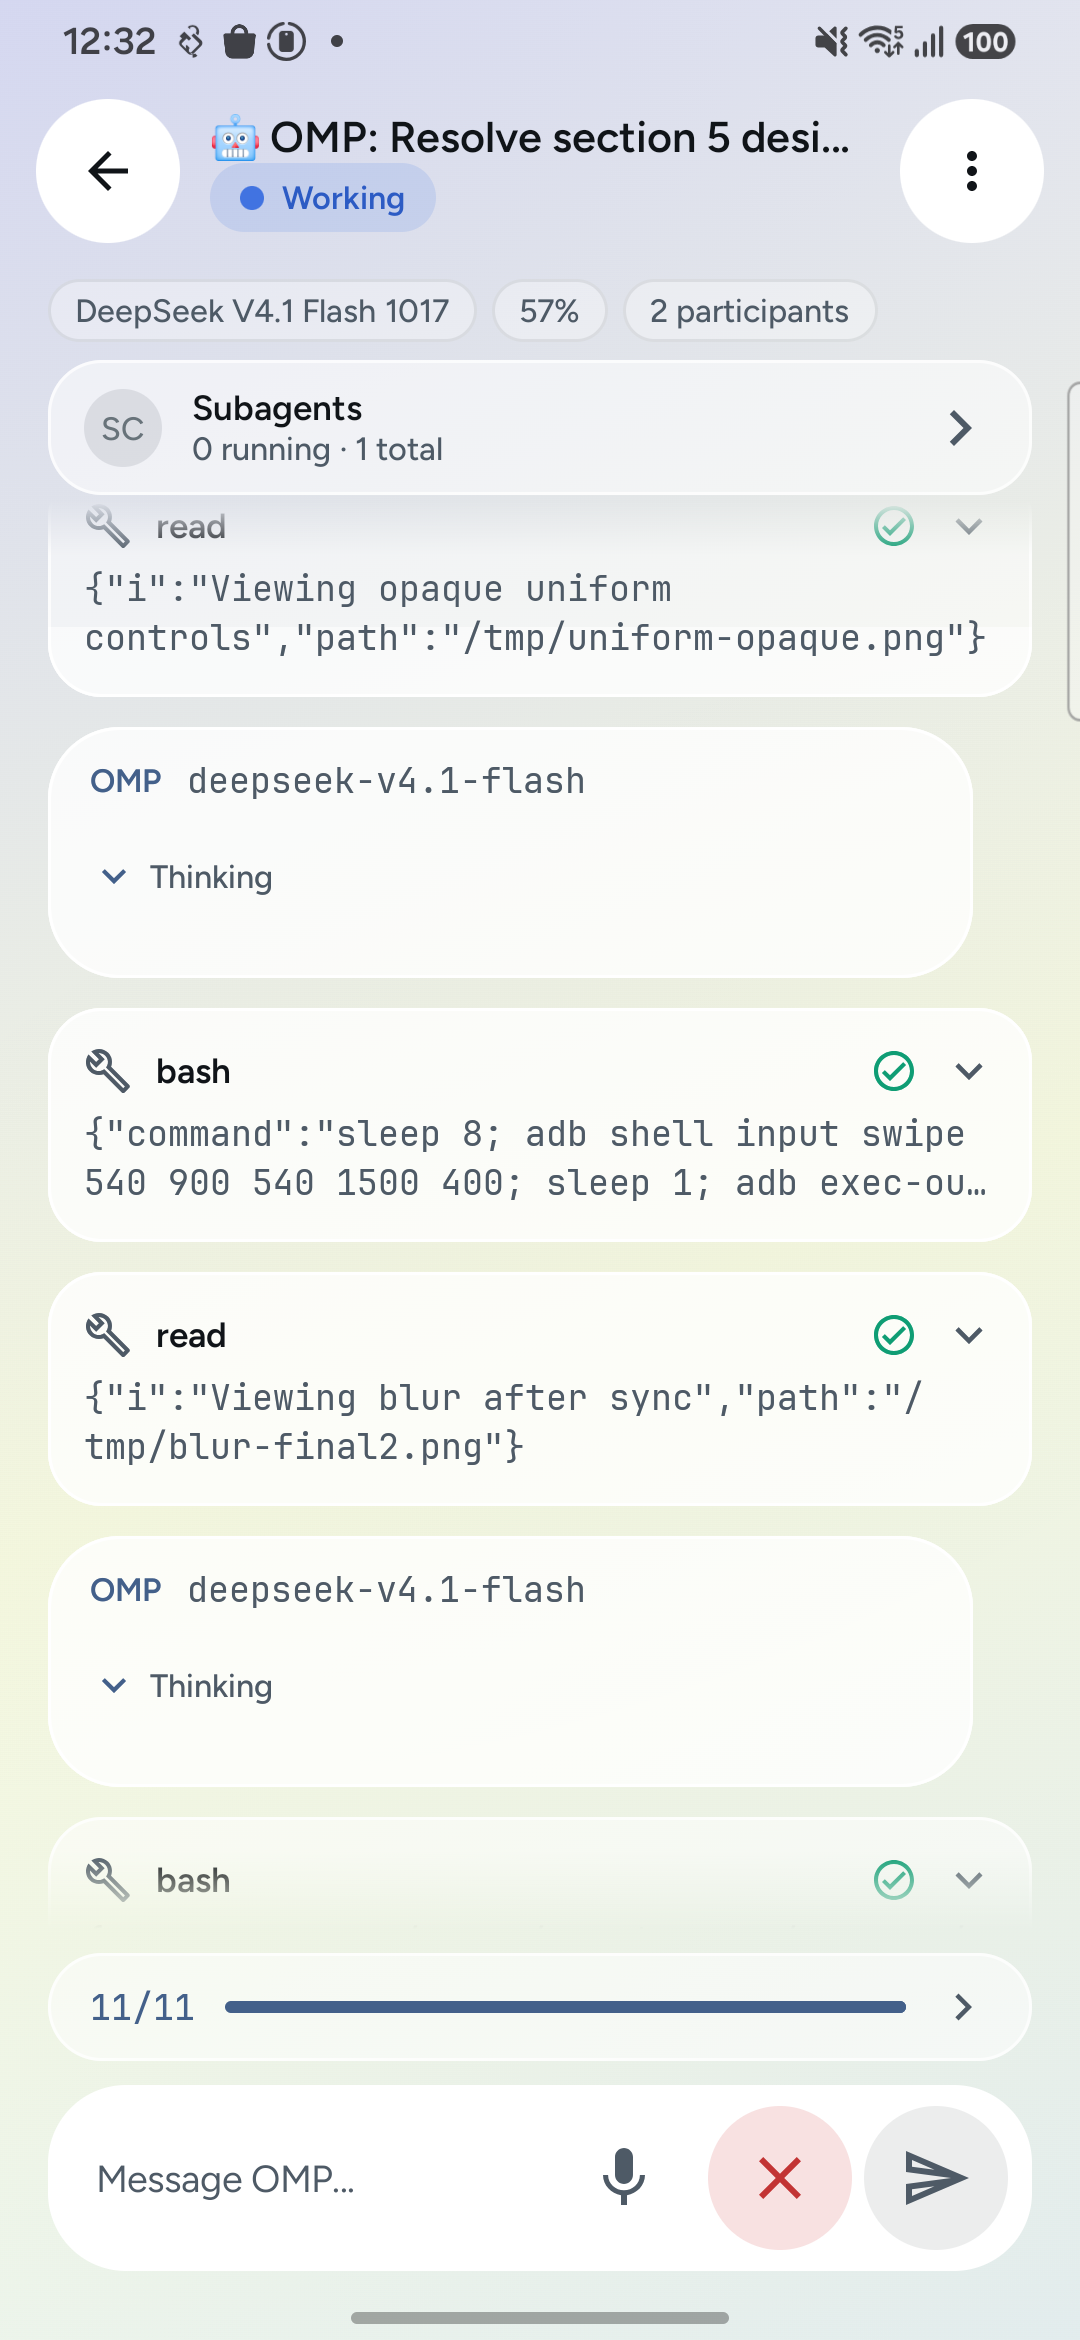
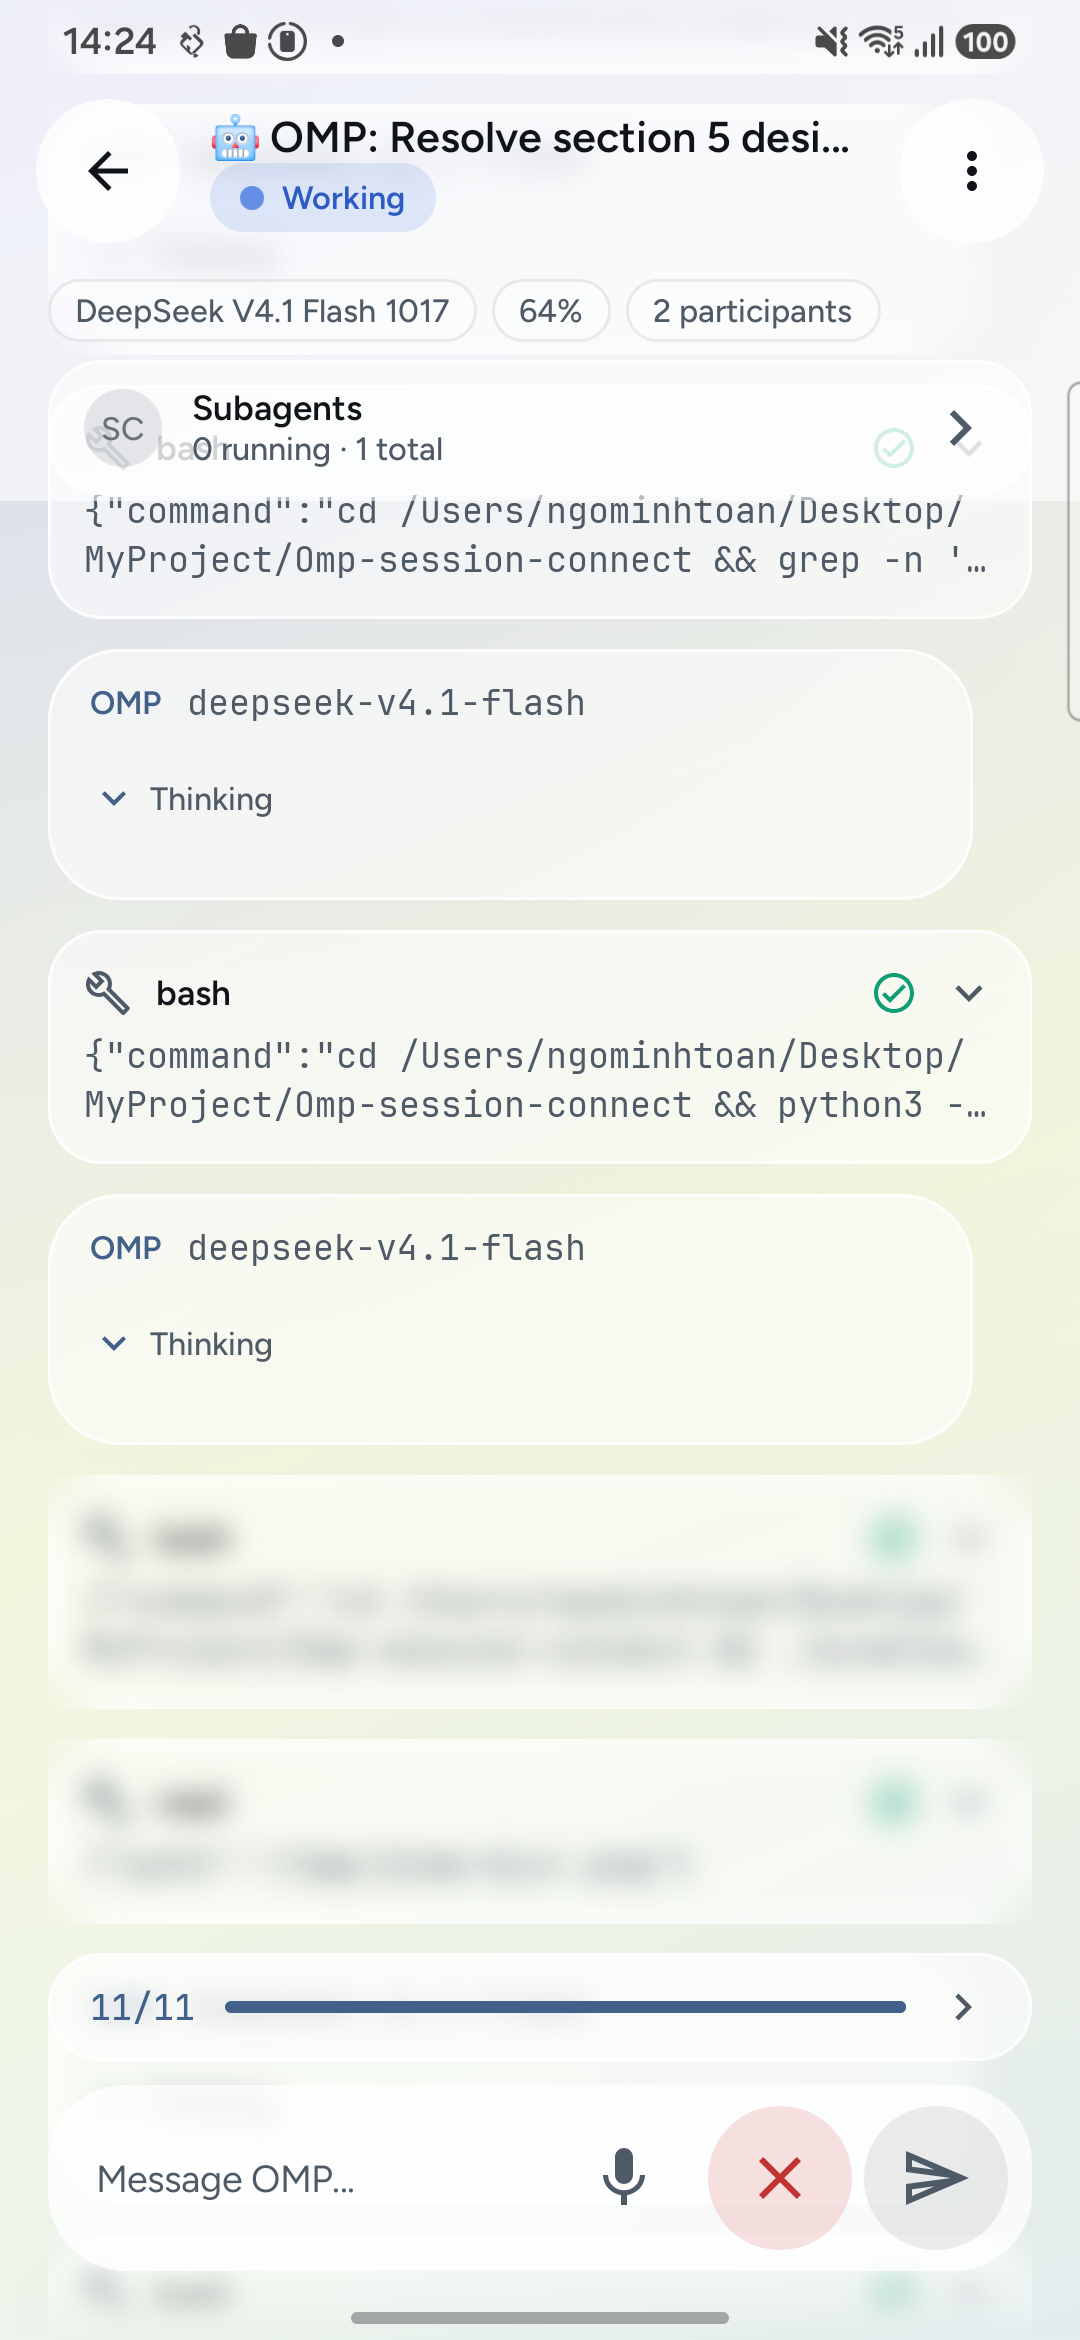
Render chat beneath fixed chrome with per-item edge blur

diff --git a/app/src/main/kotlin/com/ompsessionconnect/ui/detail/SessionDetailScreen.kt b/app/src/main/kotlin/com/ompsessionconnect/ui/detail/SessionDetailScreen.kt
@@ -88,6 +88,11 @@ import androidx.compose.ui.Alignment
 import androidx.compose.ui.Modifier
 import androidx.compose.ui.graphics.Color
 import androidx.compose.ui.draw.clip
+import androidx.compose.ui.zIndex
+import androidx.compose.ui.draw.blur
+import androidx.compose.ui.platform.LocalDensity
+import androidx.compose.runtime.derivedStateOf
+import android.os.Build
 import androidx.compose.ui.graphics.SolidColor
 import androidx.compose.ui.platform.LocalContext
 import androidx.compose.ui.platform.LocalResources
@@ -122,7 +127,7 @@ import com.ompsessionconnect.domain.model.UserMessageItem
 import com.ompsessionconnect.ui.AppEvent
 import com.ompsessionconnect.ui.AppViewModel
 import com.ompsessionconnect.ui.components.ConfirmDialog
-import com.ompsessionconnect.ui.components.edgeBlurFade
+import com.ompsessionconnect.ui.components.edgeFade
 import com.ompsessionconnect.ui.components.GlassIconButton
 import com.ompsessionconnect.ui.components.StatusPill
 import com.ompsessionconnect.ui.components.rememberVoiceInput
@@ -313,17 +318,99 @@ private fun SessionDetailContent(
   val streamText = snapshot?.streamingText
   val streamThinking = snapshot?.streamingThinking
 
-  Scaffold(
-    containerColor = Color.Transparent,
-    snackbarHost = { SnackbarHost(snackbarHostState) },
-    topBar = {
+  val density = LocalDensity.current
+  val topBandPx = with(density) { 220.dp.toPx() }
+  val bottomBandPx = with(density) { 140.dp.toPx() }
+  val blurredKeys by remember(listState) {
+    derivedStateOf {
+      val height = listState.layoutInfo.viewportSize.height
+      listState.layoutInfo.visibleItemsInfo
+        .filter { info ->
+          info.offset < topBandPx ||
+            info.offset + info.size > height - bottomBandPx
+        }
+        .map { it.key }
+        .toSet()
+    }
+  }
+  val blurAvailable = Build.VERSION.SDK_INT >= Build.VERSION_CODES.S
+  val legacyInsets = !blurAvailable
+  fun Modifier.edgeBlur(key: Any): Modifier =
+    if (blurAvailable && key in blurredKeys) blur(8.dp) else this
+
+  Box(modifier = Modifier.fillMaxSize()) {
+    LazyColumn(
+      modifier = Modifier
+        .fillMaxSize()
+        .edgeFade(top = 18.dp, bottom = 26.dp),
+      state = listState,
+      reverseLayout = true,
+      contentPadding = androidx.compose.foundation.layout.PaddingValues(
+        start = 16.dp,
+        end = 16.dp,
+        top = if (legacyInsets) 200.dp else 16.dp,
+        bottom = if (legacyInsets) 140.dp else 16.dp,
+      ),
+      verticalArrangement = Arrangement.spacedBy(10.dp),
+    ) {
+      item(key = "stream", contentType = "stream") {
+        Box(modifier = Modifier.edgeBlur("stream")) {
+          if (streamText != null || streamThinking != null) {
+            AssistantBubble(
+            text = streamText.orEmpty(),
+            thinking = streamThinking.orEmpty(),
+            streaming = snapshot.working,
+              model = snapshot.modelName,
+            )
+          }
+        }
+      }
+      if (transcript.isEmpty() && streamText == null && streamThinking == null) {
+        item(key = "empty", contentType = "empty") {
+          Box(modifier = Modifier.edgeBlur("empty")) {
+            Box(
+              modifier = Modifier
+                .fillMaxWidth()
+                .padding(vertical = 48.dp),
+              contentAlignment = Alignment.Center,
+            ) {
+              Text(
+                text = stringResource(R.string.detail_empty),
+                style = MaterialTheme.typography.bodyMedium,
+                color = MaterialTheme.colorScheme.onSurfaceVariant,
+              )
+            }
+          }
+        }
+      }
+      items(
+        items = transcript,
+        key = { it.id },
+        contentType = { item -> item.itemType.name },
+      ) { item ->
+        Box(modifier = Modifier.edgeBlur(item.id)) {
+          TranscriptRow(item)
+        }
+      }
+    }
+
+    Box(
+      modifier = Modifier
+        .align(Alignment.TopCenter)
+        .fillMaxWidth()
+        .zIndex(3f)
+        .background(tokens.control.copy(alpha = 0.58f)),
+    ) {
       Column(
         modifier = Modifier
           .fillMaxWidth()
-          .statusBarsPadding()
-          .padding(horizontal = 12.dp, vertical = 8.dp),
+          .zIndex(2f)
+          .statusBarsPadding(),
       ) {
-        Row(verticalAlignment = Alignment.CenterVertically) {
+        Row(
+          modifier = Modifier.padding(horizontal = 12.dp, vertical = 8.dp),
+          verticalAlignment = Alignment.CenterVertically,
+        ) {
           GlassIconButton(
             icon = Icons.AutoMirrored.Outlined.ArrowBack,
             contentDescription = stringResource(R.string.action_back),
@@ -381,13 +468,46 @@ private fun SessionDetailContent(
             }
           }
         }
+        snapshot?.let { state ->
+          StateBanners(state = state, onReconnect = { appViewModel.reconnect(overview.id) })
+          if (state.phase == SessionPhase.LIVE || state.phase == SessionPhase.CONNECTING) {
+            SessionMeta(state)
+            if (state.subagents.isNotEmpty()) {
+              SubagentBar(
+                agents = state.subagents,
+                onClick = { subagentsOpen = true },
+              )
+            }
+          }
+          state.notices.lastOrNull { it.level != NoticeLevel.INFO }?.let { notice ->
+            if (System.currentTimeMillis() - notice.timestamp < 120_000) {
+              Text(
+                text = notice.text,
+                modifier = Modifier.padding(horizontal = 16.dp, vertical = 4.dp),
+                style = MaterialTheme.typography.labelSmall,
+                color = if (notice.level == NoticeLevel.ERROR) {
+                  MaterialTheme.colorScheme.error
+                } else {
+                  MaterialTheme.colorScheme.tertiary
+                },
+              )
+            }
+          }
+        }
       }
-    },
-    bottomBar = {
+    }
+
+    Box(
+      modifier = Modifier
+        .align(Alignment.BottomCenter)
+        .fillMaxWidth()
+        .zIndex(3f),
+    ) {
       if (snapshot != null) {
         Column(
           modifier = Modifier
             .fillMaxWidth()
+            .zIndex(2f)
             .imePadding()
             .navigationBarsPadding()
             .padding(horizontal = 16.dp, vertical = 8.dp),
@@ -466,85 +586,15 @@ private fun SessionDetailContent(
           )
         }
       }
-    },
-  ) { padding ->
-    Column(
-      modifier = Modifier
-        .fillMaxSize()
-        .padding(padding),
-    ) {
-      snapshot?.let { state ->
-        StateBanners(state = state, onReconnect = { appViewModel.reconnect(overview.id) })
-        if (state.phase == SessionPhase.LIVE || state.phase == SessionPhase.CONNECTING) {
-          SessionMeta(state)
-          if (state.subagents.isNotEmpty()) {
-            SubagentBar(
-              agents = state.subagents,
-              onClick = { subagentsOpen = true },
-            )
-          }
-        }
-        state.notices.lastOrNull { it.level != NoticeLevel.INFO }?.let { notice ->
-          if (System.currentTimeMillis() - notice.timestamp < 120_000) {
-            Text(
-              text = notice.text,
-              modifier = Modifier.padding(horizontal = 16.dp, vertical = 4.dp),
-              style = MaterialTheme.typography.labelSmall,
-              color = if (notice.level == NoticeLevel.ERROR) {
-                MaterialTheme.colorScheme.error
-              } else {
-                MaterialTheme.colorScheme.tertiary
-              },
-            )
-          }
-        }
-      }
-
-      LazyColumn(
-        modifier = Modifier
-          .fillMaxWidth()
-          .weight(1f)
-          .edgeBlurFade(),
-        state = listState,
-        reverseLayout = true,
-        contentPadding = androidx.compose.foundation.layout.PaddingValues(16.dp),
-        verticalArrangement = Arrangement.spacedBy(10.dp),
-      ) {
-        item(key = "stream", contentType = "stream") {
-          if (streamText != null || streamThinking != null) {
-            AssistantBubble(
-              text = streamText.orEmpty(),
-              thinking = streamThinking.orEmpty(),
-              streaming = snapshot.working,
-              model = snapshot.modelName,
-            )
-          }
-        }
-        if (transcript.isEmpty() && streamText == null && streamThinking == null) {
-          item(key = "empty", contentType = "empty") {
-            Box(
-              modifier = Modifier
-                .fillMaxWidth()
-                .padding(vertical = 48.dp),
-              contentAlignment = Alignment.Center,
-            ) {
-              Text(
-                text = stringResource(R.string.detail_empty),
-                style = MaterialTheme.typography.bodyMedium,
-                color = MaterialTheme.colorScheme.onSurfaceVariant,
-              )
-            }
-          }
-        }
-        items(
-          items = transcript,
-          key = { it.id },
-          contentType = { item -> item.itemType.name },
-        ) { item ->
-          TranscriptRow(item)
-        }
-      }
     }
+
+    SnackbarHost(
+      hostState = snackbarHostState,
+      modifier = Modifier
+        .align(Alignment.BottomCenter)
+        .zIndex(4f)
+        .padding(bottom = 96.dp),
+    )
   }
 
   val agents = snapshot?.subagents.orEmpty()

diff --git a/app/src/main/kotlin/com/ompsessionconnect/ui/components/Glass.kt b/app/src/main/kotlin/com/ompsessionconnect/ui/components/Glass.kt
@@ -22,22 +22,14 @@ import androidx.compose.ui.draw.drawWithContent
 import androidx.compose.ui.geometry.Offset
 import androidx.compose.ui.geometry.Size
 import androidx.compose.ui.graphics.BlendMode
-import androidx.compose.ui.graphics.BlurEffect
 import androidx.compose.ui.graphics.Brush
 import androidx.compose.ui.graphics.Color
 import androidx.compose.ui.graphics.CompositingStrategy
-import androidx.compose.ui.graphics.rememberGraphicsLayer
-import androidx.compose.ui.graphics.layer.drawLayer
 import androidx.compose.ui.graphics.graphicsLayer
-import androidx.compose.ui.graphics.drawscope.clipRect
 import androidx.compose.ui.Modifier
 import androidx.compose.ui.graphics.vector.ImageVector
 import androidx.compose.ui.unit.Dp
-import androidx.compose.ui.unit.IntSize
-import androidx.compose.ui.unit.LayoutDirection
 import androidx.compose.ui.unit.dp
-import androidx.compose.ui.platform.LocalDensity
-import android.os.Build
 import com.ompsessionconnect.ui.theme.LocalLiveGlass
 
 @Composable
@@ -113,81 +105,3 @@ fun Modifier.edgeFade(
       )
     }
   }
-
-/**
- * API 31+: blurs the top and bottom strips of the scrolling layer, then fades the
- * outer edge. Older APIs keep the alpha-only [edgeFade] behavior.
- */
-@Composable
-fun Modifier.edgeBlurFade(
-  top: Dp = 42.dp,
-  bottom: Dp = 42.dp,
-  fadeTop: Dp = 18.dp,
-  fadeBottom: Dp = 26.dp,
-  blurRadius: Dp = 8.dp,
-): Modifier {
-  if (Build.VERSION.SDK_INT < Build.VERSION_CODES.S) {
-    return edgeFade(top = fadeTop, bottom = fadeBottom)
-  }
-  val layer = rememberGraphicsLayer()
-  val density = LocalDensity.current
-  val topPx = with(density) { top.toPx() }
-  val bottomPx = with(density) { bottom.toPx() }
-  val fadeTopPx = with(density) { fadeTop.toPx() }
-  val fadeBottomPx = with(density) { fadeBottom.toPx() }
-  val blurPx = with(density) { blurRadius.toPx() }
-  return this
-    .graphicsLayer { compositingStrategy = CompositingStrategy.Offscreen }
-    .drawWithContent {
-      val width = size.width.toInt()
-      val height = size.height.toInt()
-      layer.record(density, layoutDirection, IntSize(width, height)) {
-        this@drawWithContent.drawContent()
-      }
-      clipRect(
-        left = 0f,
-        top = topPx,
-        right = size.width,
-        bottom = (size.height - bottomPx).coerceAtLeast(topPx),
-      ) {
-        this@drawWithContent.drawContent()
-      }
-      layer.renderEffect = BlurEffect(blurPx, blurPx)
-      clipRect(left = 0f, top = 0f, right = size.width, bottom = topPx) {
-        drawLayer(layer)
-      }
-      clipRect(
-        left = 0f,
-        top = (size.height - bottomPx).coerceAtLeast(0f),
-        right = size.width,
-        bottom = size.height,
-      ) {
-        drawLayer(layer)
-      }
-      if (fadeTopPx > 0f) {
-        drawRect(
-          brush = Brush.verticalGradient(
-            colorStops = arrayOf(0f to Color.Black, 1f to Color.Transparent),
-            startY = 0f,
-            endY = fadeTopPx.coerceAtMost(size.height / 2f),
-          ),
-          topLeft = Offset.Zero,
-          size = Size(size.width, fadeTopPx.coerceAtMost(size.height / 2f)),
-          blendMode = BlendMode.DstOut,
-        )
-      }
-      if (fadeBottomPx > 0f) {
-        val h = fadeBottomPx.coerceAtMost(size.height / 2f)
-        drawRect(
-          brush = Brush.verticalGradient(
-            colorStops = arrayOf(0f to Color.Transparent, 1f to Color.Black),
-            startY = size.height - h,
-            endY = size.height,
-          ),
-          topLeft = Offset(0f, size.height - h),
-          size = Size(size.width, h),
-          blendMode = BlendMode.DstOut,
-        )
-      }
-    }
-}

diff --git a/app/src/main/kotlin/com/ompsessionconnect/ui/theme/Color.kt b/app/src/main/kotlin/com/ompsessionconnect/ui/theme/Color.kt
@@ -27,7 +27,7 @@ val LiveGlassDarkFieldC = Color(0xFF1B1030)
 val LiveGlassLightGlass = Color(0x8CFFFFFF) // 55%
 val LiveGlassLightGlassStrong = Color(0xC2FFFFFF) // 76%
 val LiveGlassLightSheetOpaque = Color(0xFFFFFFFF) // opaque reading sheet
-val LiveGlassLightControl = Color(0xFFFFFFFF) // controls share one fill
+val LiveGlassLightControl = Color(0xC2FFFFFF) // controls share one fill
 val LiveGlassLightEdge = Color(0xBFFFFFFF) // 75%
 val LiveGlassLightInset = Color(0x57FFFFFF)
 val LiveGlassLightHairline = Color(0x14101418)
@@ -35,7 +35,7 @@ val LiveGlassLightHairline = Color(0x14101418)
 val LiveGlassDarkGlass = Color(0x8C141826) // rgba(20,24,38,.55)
 val LiveGlassDarkGlassStrong = Color(0xCC1B2031)
 val LiveGlassDarkSheetOpaque = Color(0xFF141826)
-val LiveGlassDarkControl = Color(0xFF141826)
+val LiveGlassDarkControl = Color(0xCC1B2031)
 val LiveGlassDarkEdge = Color(0x29FFFFFF) // 16%
 val LiveGlassDarkInset = Color(0x0FFFFFFF)
 val LiveGlassDarkHairline = Color(0x17FFFFFF)
